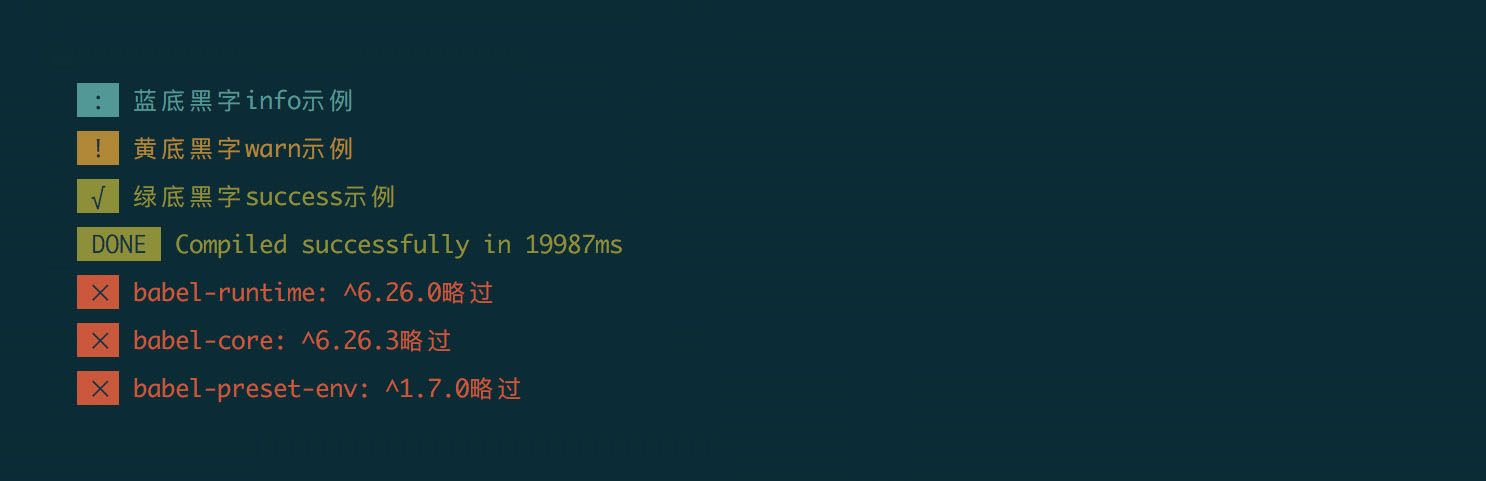
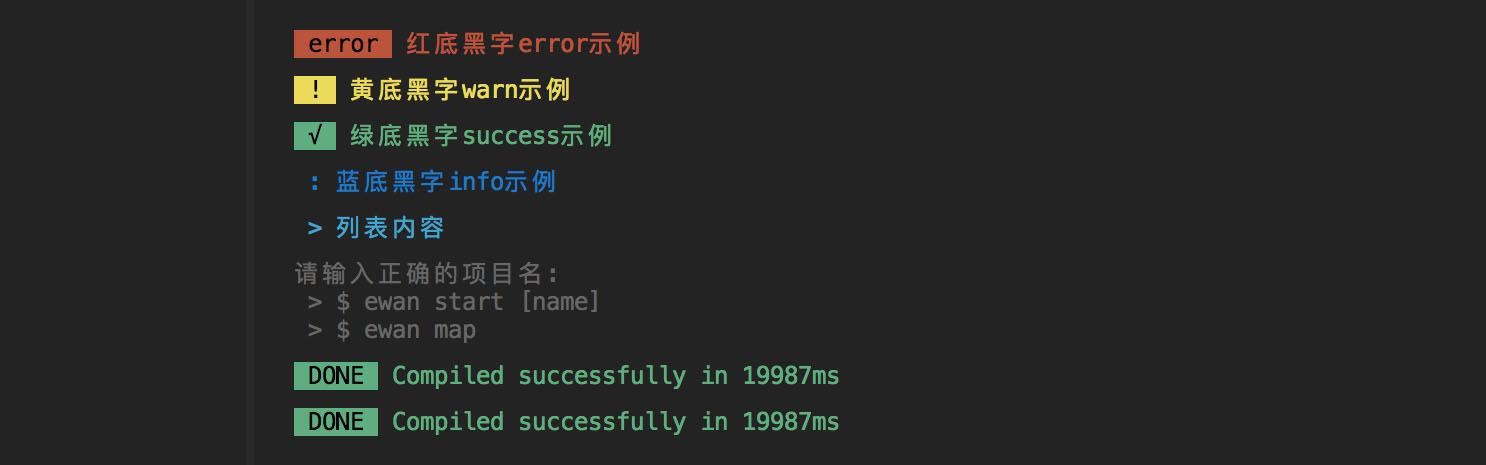
start config

Changed region(s): [[0.031, 0.0, 0.5882, 1.0]]

diff --git a/bin/ewan.js b/bin/ewan.js
@@ -1,7 +1,10 @@
 #! /usr/bin/env node
 
 var program = require('commander'),
-  inquirer = require('inquirer')
+  inquirer = require('inquirer'),
+  config = require('../ewan.config')
+
+require('../lib/colors')
 
 
 
@@ -20,28 +23,28 @@ program
     if (options.toolname) {
       require('./' + options.toolname + '.js')()
     } else {
-      selectTool([
-        { name: 'docs', desc: '文档支持' },
-        { name: 'rollup', desc: '--' },
-        { name: 'es6', desc: 'ES6支持' },
-        { name: '其它', desc: '更多的其它安装' }
-      ], function (name) {
+      selectTool(config.projects, function (name) {
         require('./' + name + '.js')() // 根据不同的命令转到不同的命令处理文件
       })
     }
   })
 
+/* 启动应用
+ */
 program
-  .command('serve:docs')
-  .alias('sv')
+  .command('start <name>')
   .description('启动服务')
-  .option('-t,--toolname [i]', '工具名')
-  .action(function (options) {
-    var exec = require('child_process').exec(
-      './node_modules/.bin/docsify serve docs-main'
-    )
+  .action(function (name) {
+    const project = config.projectMap[name]
+    if (!project) {
+      console.error('请输入正确的项目名')
+      console.color({ color: 'grey' }, ' > $ ewan start [name]')
+      console.color({ color: 'grey' }, ' > $ ewan map\n')
+      return
+    }
+    var exec = require('child_process').exec(project.start)
     exec.stdout.on('data', function (data) {
-      console.log('stdout: ' + data)
+      console.color({ color: 'green' }, data)
     })
   })
 
@@ -67,6 +70,8 @@ program
   })
 
 program.parse(process.argv)
+var pname = program.args[0]
+if (!pname) program.help() // 如果未接收到作何参数则返回帮助信息
 
 function selectTool (choices, handler) {
   let questions = [

diff --git a/lib/colors.js b/lib/colors.js
@@ -39,6 +39,8 @@ function handle (args, opt) {
   const prefix = opt.color ? colorMap[opt.color] : colorMap['white'],
     suffix = opt.suffix || '\033[0m'
   const _args = Array.prototype.slice.apply(args)
+  _args[0] = _args[0].replace('error: ', '')
+
   let str = opt.icon ? prefix[0] + ' ' + opt.icon + ' ' + suffix + ' ' : ''
 
   _args.forEach(element => {
@@ -47,18 +49,6 @@ function handle (args, opt) {
   return str
 }
 
-console.success = function () {
-  console.log(handle(arguments, { color: 'green', icon: '√' }))
-}
-console.info = function () {
-  console.log(handle(arguments, { color: 'cyan', icon: ':' }))
-}
-console.warn = function () {
-  console.log(handle(arguments, { color: 'yellow', icon: '!' }))
-}
-console.error = function () {
-  console.log(handle(arguments, { color: 'red', icon: '✕' }))
-}
 console.color = function () {
   let _args = Array.prototype.slice.apply(arguments),
     options = _args.shift(),
@@ -71,3 +61,25 @@ console.color = function () {
   }
   console.log(handle(_args, opts))
 }
+
+console.warn = function () {
+  console.log(handle(arguments, { color: 'yellow', icon: 'warn' }))
+}
+console.error = function () {
+  console.log(handle(arguments, { color: 'red', icon: 'error' }))
+}
+
+console.success = function () {
+  console.log(handle(arguments, { color: 'green', icon: '√' }))
+}
+console.info = function () {
+  console.color({ color: 'blue' }, ' : ' + arguments[0])
+}
+console.list = function () {
+  console.color({ color: 'cyan' }, ' > ' + arguments[0])
+}
+console.title = function () {
+  console.color({ color: 'grey' }, arguments[0] + ':')
+}
+
+

diff --git a/lib/package.js b/lib/package.js
@@ -2,12 +2,6 @@ var fs = require('fs-extra'),
   colors = require('./colors'),
   currentPath = process.cwd()
 
-console.info('蓝底黑字info示例\n')
-console.warn('黄底黑字warn示例\n')
-console.success('绿底黑字success示例\n')
-console.color(['green', 'DONE'], 'Compiled successfully in 19987ms\n')
-
-
 module.exports = {
   body: function () {
     return fs.existsSync(currentPath + '/package.json') ? require(currentPath + '/package.json') : require('../file/template/package.json')

diff --git a/ewan.config.js b/ewan.config.js
@@ -1,0 +1,14 @@
+const config = {
+  projects: [
+    { name: 'docs', desc: '文档支持', start: './node_modules/.bin/docsify serve docs' },
+    { name: 'rollup', desc: '--' },
+    { name: 'es6', desc: 'ES6支持' },
+    { name: '其它', desc: '更多的其它安装' }
+  ]
+}
+config.projectMap = {}
+config.projects.forEach(function (item) {
+  config.projectMap[item.name] = item
+})
+
+module.exports = config

diff --git a/docs/index.html b/docs/index.html
@@ -28,7 +28,8 @@
       name: 'Cmmand Line Interface',
       repo: 'https://github.com/wmgcuan/ewan.git',
       loadSidebar: false, // _sidebar.md
-      loadNavbar: true, // _navbar.md
+      //loadNavbar: true, // _navbar.md
+      loadNavbar: './_navbar.md',
       //coverpage: true, // _coverpage.md
       coverpage: {
         '/': '_coverpage.md',

diff --git a/docs/pages/tools.md b/docs/pages/tools.md
@@ -2,8 +2,23 @@
 
 格式：\033[背景色编号;字色编号m + content + suffix<br>
 
-字色编号：30黑，31红，32绿，33黄，34蓝，35紫，36深绿，37白色<br>
-背景编号：40黑，41红，42绿，43黄，44蓝，45紫，46深绿，47白色<br>
+字色编号：30黑，31红，32绿，33黄，34蓝，35紫，36深绿，37白<br>
+背景编号：40黑，41红，42绿，43黄，44蓝，45紫，46深绿，47白<br>
+
+green:绿
+blue:蓝
+cyan:青色
+red: 红
+magenta:品红
+yellow:黄
+grey: 灰色
+white: 白色
+black: 黑色
+bold: 加粗
+italic: 斜体
+underline: 下划线
+inverse: 颠倒
+strikethrough: 加删除线
 
 \033[0m 关闭所有属性<br>
 \033[1m 设置高亮度<br>
@@ -22,12 +37,17 @@
 ![应用效果](./images/console-color.jpg '应用效果')
 
 ```js
-const colors = require('./colors')
+require('./colors')
 
-console.info('蓝底黑字info示例\n')
-console.warn('黄底黑字warn示例\n')
-console.success('绿底黑字success示例\n')
 console.error('红底黑字error示例\n')
+console.warn('黄底黑字warn示例\n')
+
+console.success('绿底黑字success示例\n')
+console.info('蓝底黑字info示例\n')
+console.list('列表内容')
+console.title('请输入正确的项目名')
+console.color({ color: 'grey' }, ' > $ ewan start [name]')
+console.color({ color: 'grey' }, ' > $ ewan map\n')
 
 console.color(['green', 'DONE'], 'Compiled successfully in 19987ms\n')
 console.color({color:'green', icon:'DONE', suffix: '\033[0m'}, 'Compiled successfully in 19987ms\n') 
@@ -38,7 +58,7 @@ console.color({color:'green', icon:'DONE', suffix: '\033[0m'}, 'Compiled success
 # 柯理化(CURRING) `./lib/curring.js`
 **curring.all** 参数累积，统一处理
 - shell(arg) => [arg]
-- hell(arg) => [arg, arg]
+- shell(arg) => [arg, arg]
 - fn(arg, arg)
 
 **curring.step** 分步处理，结果依赖

diff --git a/docs/_navbar.md b/docs/_navbar.md
@@ -2,7 +2,7 @@
 - [HOME](/)
 - [CLI](pages/cli.md)
 * DOCS
-  - [文档构建](pages/docs.md)
+  - [文档配置](pages/docs.md)
   - [工具](pages/tools.md)
 
 * Language
